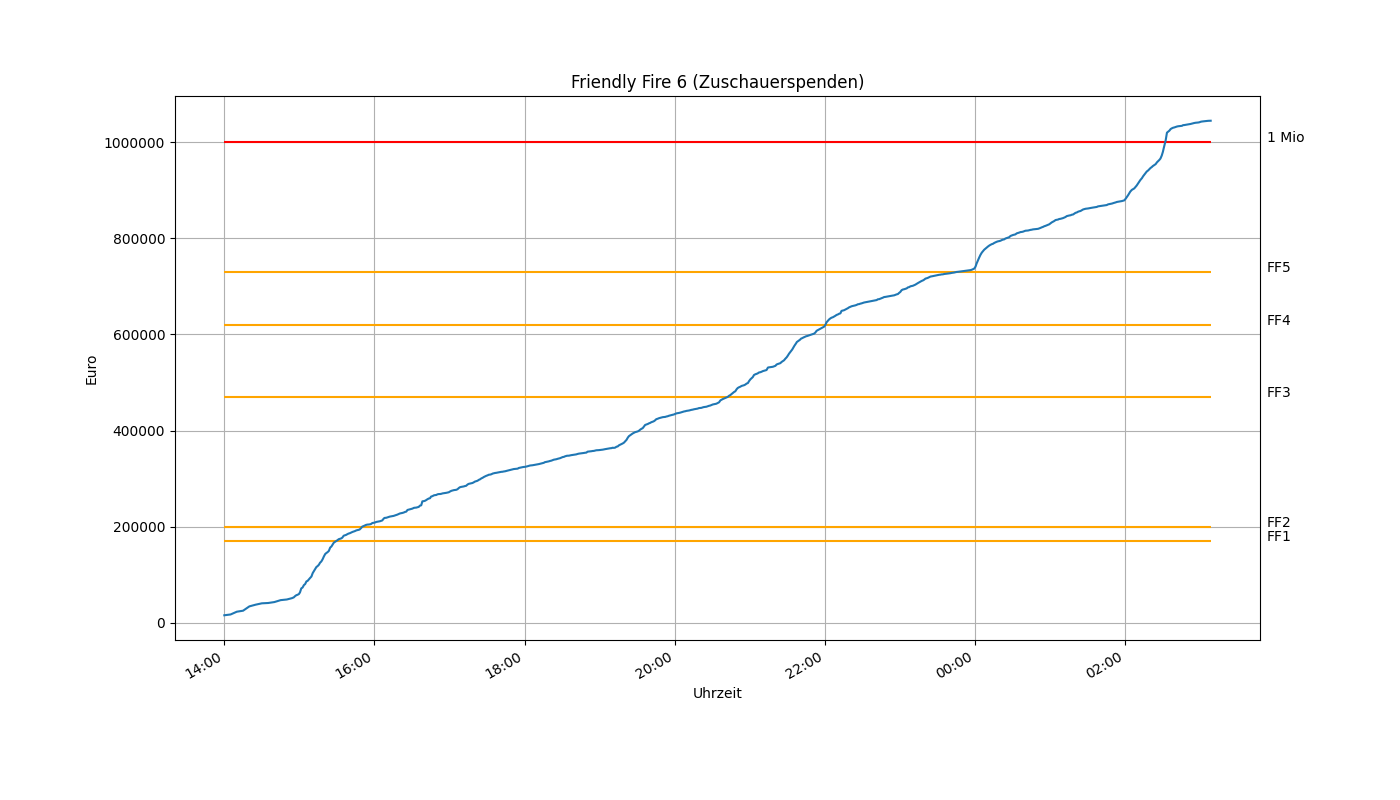
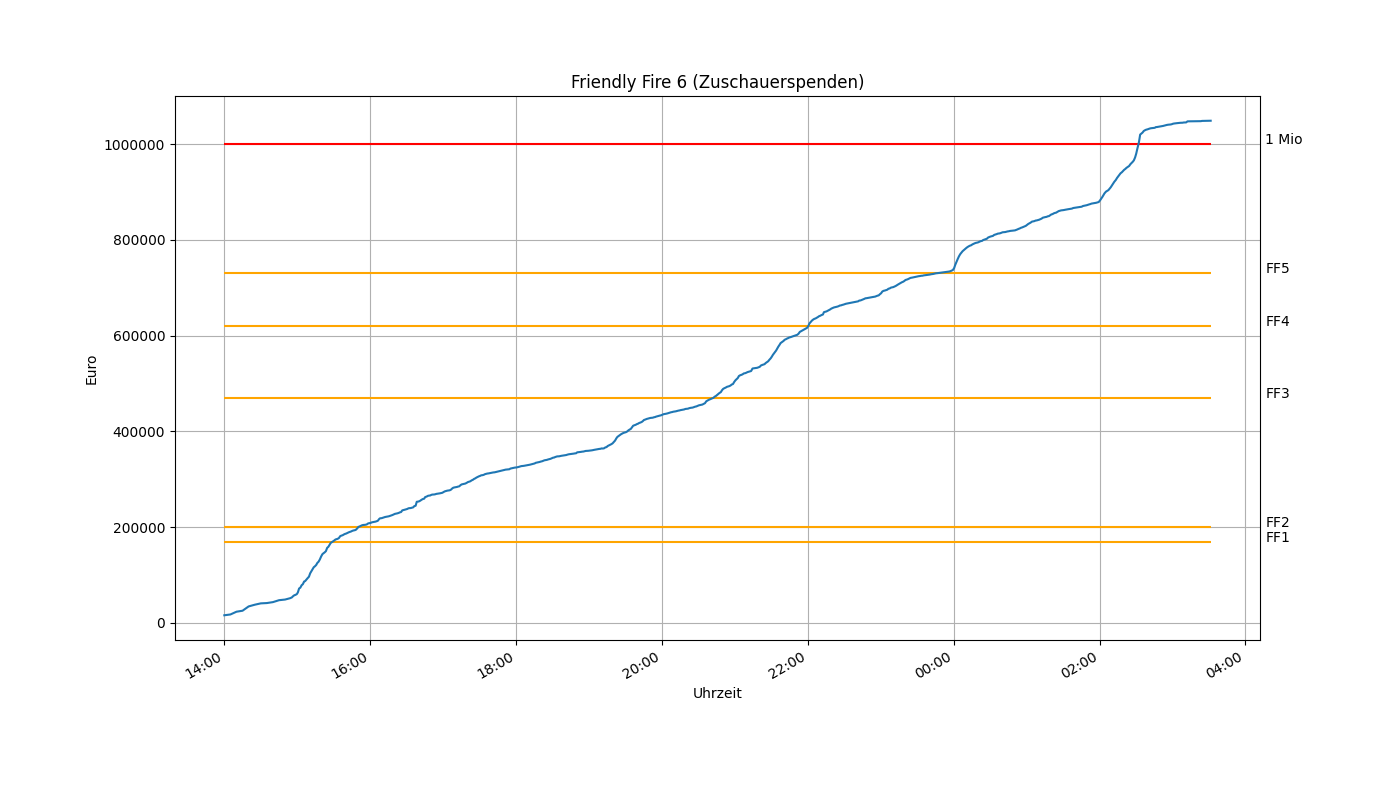
Add donor statistics

diff --git a/plot.py b/plot.py
@@ -12,7 +12,6 @@ with open('donations.json') as f:
 t = [dt.datetime.strptime(donation["updated_at"], '%Y-%m-%dT%H:%M:%S+01:00') for donation in data["donations"]]
 s = [donation["donated_amount_in_cents"]/100 for donation in data["donations"]]
 
-ax.clear()
 fig.autofmt_xdate()
 ax.grid()
 ax.plot(t, s)
@@ -35,6 +34,23 @@ ax.text(t[-1] + dt.timedelta(minutes=add), 1000000, "1 Mio")
 
 ax.set(xlabel='Uhrzeit', ylabel='Euro', title='Friendly Fire 6 (Zuschauerspenden)')
 
-fig.savefig("donations.png")
-plt.show()
-time.sleep(30)
+fig.savefig("images/donations.png")
+
+ax.clear()
+
+t = [dt.datetime.strptime(donation["updated_at"], '%Y-%m-%dT%H:%M:%S+01:00') for donation in data["donations"] if donation["donations_count"] > 0]
+s = [donation["donations_count"] for donation in data["donations"] if donation["donations_count"] > 0]
+t2 = [dt.datetime.strptime(donation["updated_at"], '%Y-%m-%dT%H:%M:%S+01:00') for donation in data["donations"] if donation["donor_count"] > 0]
+s2 = [donation["donor_count"] for donation in data["donations"] if donation["donor_count"] > 0]
+
+ax.grid()
+ax.plot(t, s, label="Anzahl Spenden")
+ax.plot(t, s2, label="Anzahl Spender")
+ax.legend()
+
+ax.xaxis.set_major_formatter(mdates.DateFormatter("%H:%M"))
+
+ax.set(xlabel='Uhrzeit', ylabel='Spenden/Spender', title='Friendly Fire 6 (Anzahl Spenden/Spender)')
+
+fig.savefig("images/donors.png")
+
